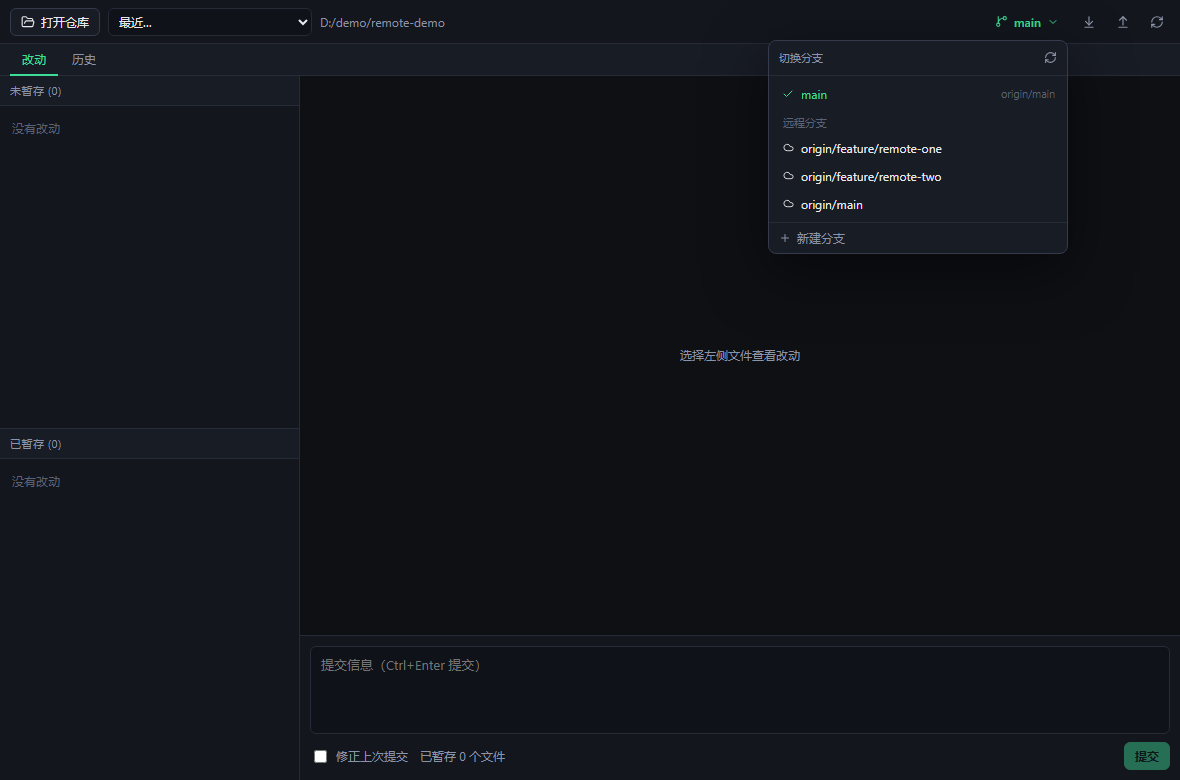
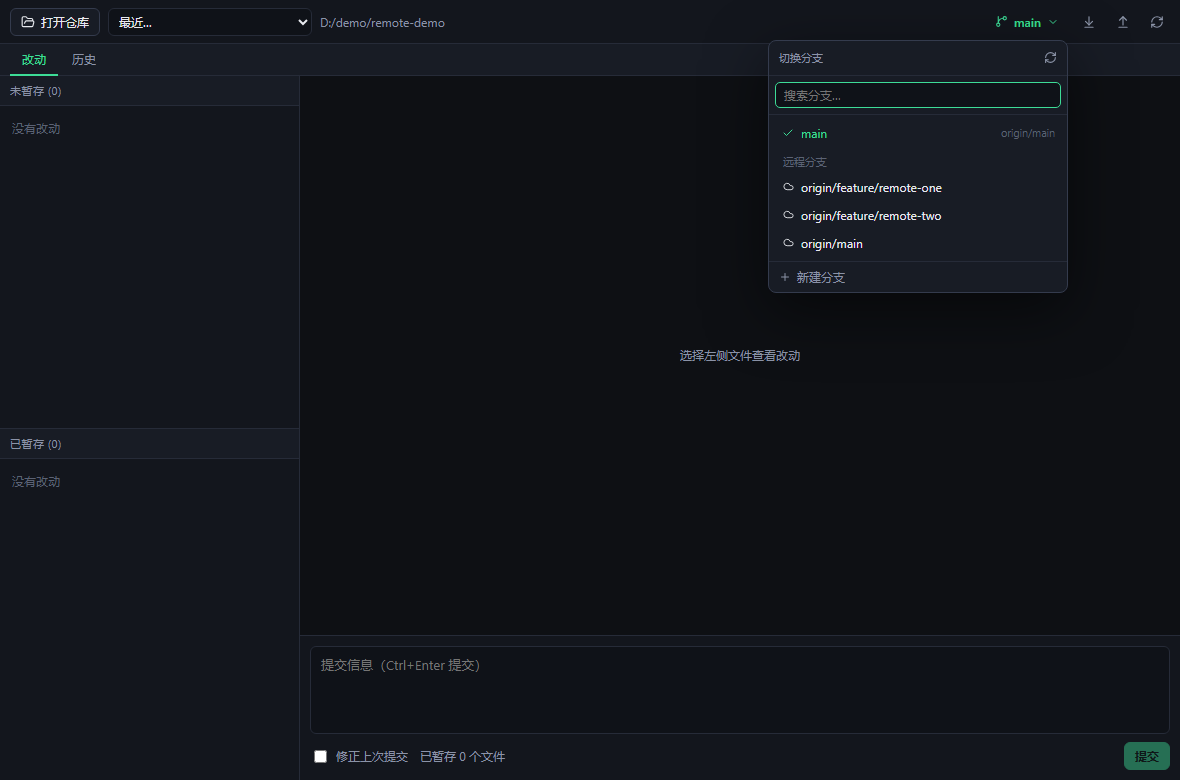
feat: search branches in the branch menu
Filter local and remote branches case-insensitively as you type.

Changed region(s): [[0.6712, 0.0923, 0.8542, 0.3692], [0.8542, 0.0923, 0.8847, 0.1846]]

diff --git a/src/components/RepoBar.tsx b/src/components/RepoBar.tsx
@@ -34,6 +34,7 @@ export function RepoBar() {
   const [menuOpen, setMenuOpen] = useState(false);
   const [creating, setCreating] = useState(false);
   const [newName, setNewName] = useState("");
+  const [query, setQuery] = useState("");
   const [pendingSwitch, setPendingSwitch] = useState<PendingSwitch | null>(null);
   const [pendingMerge, setPendingMerge] = useState<string | null>(null);
   const [pendingRebase, setPendingRebase] = useState<string | null>(null);
@@ -44,6 +45,7 @@ export function RepoBar() {
     setMenuOpen(false);
     setCreating(false);
     setNewName("");
+    setQuery("");
   };
 
   useEffect(() => {
@@ -83,6 +85,7 @@ export function RepoBar() {
       closeMenu();
       return;
     }
+    setQuery("");
     setMenuOpen(true);
     void useRepo.getState().loadBranches();
   };
@@ -174,6 +177,14 @@ export function RepoBar() {
   const merging = status?.merging ?? false;
   const rebasing = status?.rebasing ?? false;
 
+  const keyword = query.trim().toLowerCase();
+  const filteredBranches = keyword
+    ? branches.filter((item) => item.name.toLowerCase().includes(keyword))
+    : branches;
+  const filteredRemotes = keyword
+    ? remotes.filter((item) => item.name.toLowerCase().includes(keyword))
+    : remotes;
+
   return (
     <header className="repo-bar">
       <button className="btn" onClick={() => void pickRepo()} disabled={busy}>
@@ -239,8 +250,24 @@ export function RepoBar() {
                   <RefreshCw size={13} />
                 </button>
               </div>
+              <div className="branch-search">
+                <input
+                  autoFocus
+                  className="branch-input"
+                  value={query}
+                  placeholder="搜索分支…"
+                  onChange={(event) => setQuery(event.target.value)}
+                  onKeyDown={(event) => {
+                    if (event.key === "Escape") {
+                      event.preventDefault();
+                      closeMenu();
+                    }
+                  }}
+                />
+              </div>
+
               <div className="branch-menu-list">
-                {branches.map((item) => (
+                {filteredBranches.map((item) => (
                   <div
                     key={item.name}
                     className={`branch-item${item.current ? " current" : ""}`}
@@ -281,14 +308,14 @@ export function RepoBar() {
                     )}
                   </div>
                 ))}
-                {!branchesLoading && branches.length === 0 && (
+                {!keyword && !branchesLoading && branches.length === 0 && (
                   <div className="branch-empty">没有本地分支</div>
                 )}
 
-                {remotes.length > 0 && (
+                {filteredRemotes.length > 0 && (
                   <>
                     <div className="branch-subhead">远程分支</div>
-                    {remotes.map((item) => (
+                    {filteredRemotes.map((item) => (
                       <div key={item.name} className="branch-item">
                         <button
                           className="branch-pick"
@@ -303,6 +330,10 @@ export function RepoBar() {
                       </div>
                     ))}
                   </>
+                )}
+
+                {keyword && filteredBranches.length === 0 && filteredRemotes.length === 0 && (
+                  <div className="branch-empty">没有匹配的分支</div>
                 )}
               </div>
 

diff --git a/src/styles.css b/src/styles.css
@@ -283,6 +283,12 @@ body {
   color: var(--faint);
 }
 
+.branch-search {
+  padding: 6px;
+  border-bottom: 1px solid var(--border);
+  flex: none;
+}
+
 .branch-menu-list {
   overflow: auto;
   padding: 4px;

diff --git a/README.md b/README.md
@@ -55,6 +55,7 @@ SmartGit 之后没找到顺手的免费 Git 客户端：要么太重，要么把
 - 点击提交查看该次提交的文件列表与单文件 diff
 - 分支切换、新建（`git switch -c`）、合并（`git merge`）、变基（`git rebase`）
 - 远程分支：分支菜单里一键 `git fetch --all --prune`，抓取后点击远程分支即可检出为本地跟踪分支
+- 分支搜索：菜单顶部输入关键字即可实时过滤本地和远程分支
 - 拉取 / 推送：顶栏按钮，针对当前分支的上游（`git pull --no-edit` / `git push`）；拉取冲突会进入「合并中」状态，可中止
 - 工作区不干净时切换/合并会二次确认；合并/变基冲突进入对应状态，顶栏可中止
 
